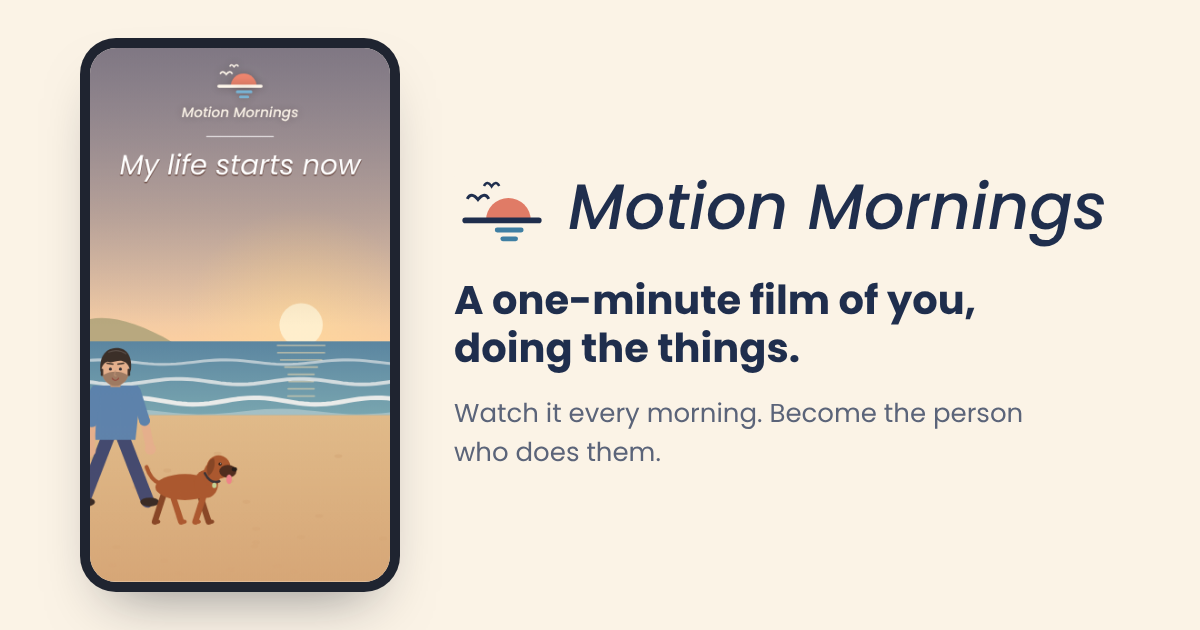
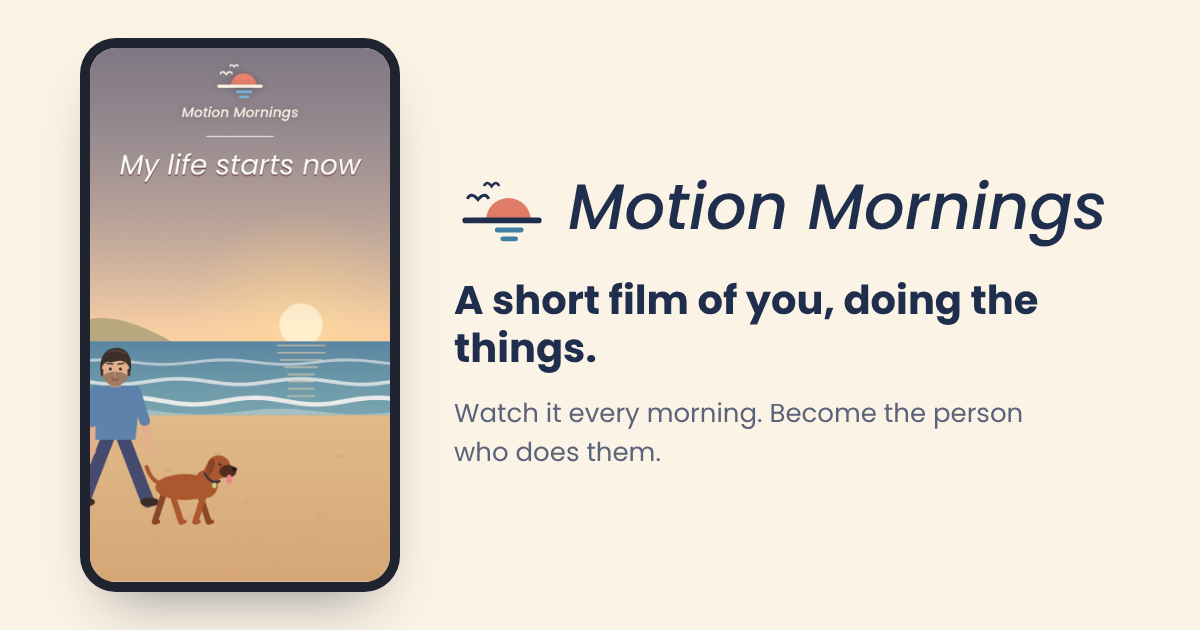
Say short film, not one-minute
Claude-Session: https://claude.ai/code/session_01QWkmQJfbVRUVtVx2xezVdb

Changed region(s): [[0.37, 0.4524, 0.8633, 0.6032]]

diff --git a/index.html b/index.html
@@ -3,7 +3,7 @@
 <head>
 <meta charset="utf-8">
 <meta name="viewport" content="width=device-width,initial-scale=1,viewport-fit=cover">
-<title>Motion Mornings: a one-minute film of you, doing the things</title>
+<title>Motion Mornings: a short film of you, doing the things</title>
 <meta name="description" content="Make a short animated film of you doing the everyday things that build the life you want. Watch it each morning and train your mind to see you as the person who does them.">
 <meta name="theme-color" content="#FBF3E6">
 <link rel="icon" href="/favicon.svg" type="image/svg+xml">
@@ -11,7 +11,7 @@
 <meta property="og:type" content="website">
 <meta property="og:url" content="https://motionmornings.com/">
 <meta property="og:title" content="Motion Mornings">
-<meta property="og:description" content="A one-minute animated film of you, doing the things. Watch it every morning.">
+<meta property="og:description" content="A short animated film of you, doing the things. Watch it every morning.">
 <meta property="og:image" content="https://motionmornings.com/og-image.png">
 <meta name="twitter:card" content="summary_large_image">
 <style>html,body{margin:0}</style>
@@ -236,8 +236,8 @@ video.result{width:100%;max-width:260px;border-radius:14px;background:#000}
     </div>
     <div class="herocopy">
       <span class="pill">Life starts now</span>
-      <h2 id="heroTitle">A minute of you, doing the things</h2>
-      <p class="herolede mobonly">A one-minute animated film of you doing the everyday things that build the life you want. Watch it each morning.</p>
+      <h2 id="heroTitle">A short film of you, doing the things</h2>
+      <p class="herolede mobonly">A short animated film of you doing the everyday things that build the life you want. Watch it each morning.</p>
       <p class="herolede deskonly">Make a short animated film of you doing the everyday things that build the life you want. Watch it each morning and train your mind to see you as the person who does them.</p>
       <p class="heroeg deskonly"><span>In this example</span> A sunrise walk on the beach, the gym, a bush run, dinner cooked together, focused work at a city cafe, a fresh clean home, quiet minutes by the lake, dancing with a soda water in hand, a cuddle at the end of the day. Each run of actions ends with a glimpse of where it leads.</p>
       <button class="btn coral" id="startBuild">Make your own film</button>

diff --git a/README.md b/README.md
@@ -1,5 +1,5 @@
 # Motion Mornings
 
-A one-minute animated film of you, doing the things. Watch it every morning.
+A short animated film of you, doing the things. Watch it every morning.
 
 Live at https://motionmornings.com
